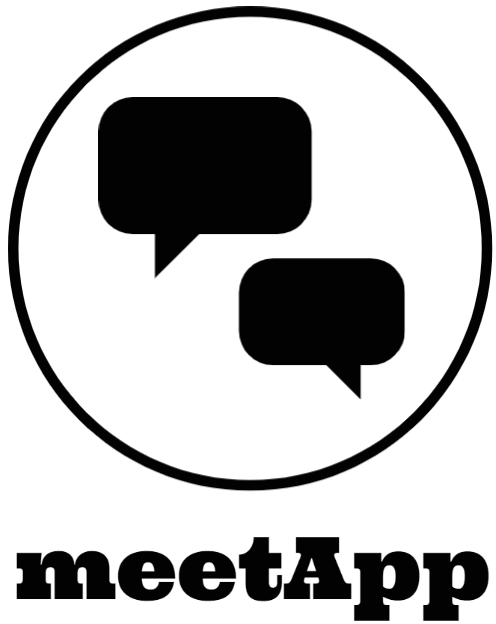
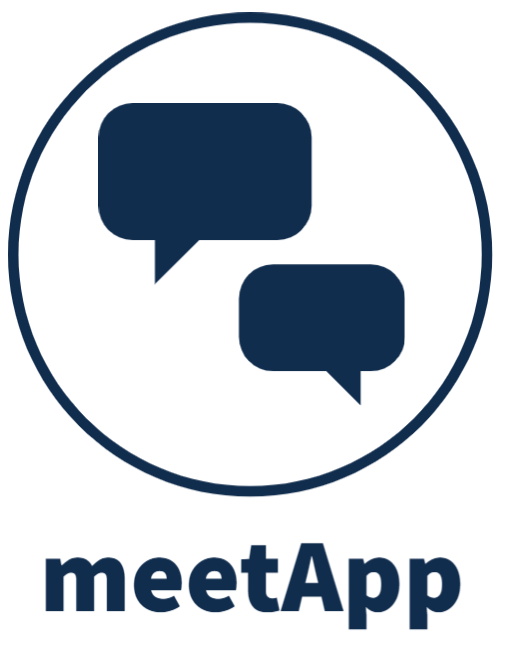
add new css features. Mainly colors

diff --git a/src/index.css b/src/index.css
@@ -1,6 +1,9 @@
 @import url(https://fonts.googleapis.com/css2?family=Space+Grotesk:wght@300&display=swap);
 
+/* Palette used: https://colorhunt.co/palette/f9f7f7dbe2ef3f72af112d4e */
+
 body{
+  background-color: #F9F7F7;
   font-family: 'Space Grotesk', sans-serif;
   text-align: left;
   margin: 50px 10%;
@@ -14,7 +17,7 @@ ul{
   margin: auto;
 }
 .logo{
-  width: 150px;
+  width: 220px;
 }
 
 .App * {
@@ -27,112 +30,6 @@ p {
 
 .display-none {
   display: none;
-}
-
-.showSuggestions {
-  display: block;
-}
-
-input[type="text"],
-input[type="number"] {
-  padding: 8px 6px 8px 10px;
-  border-radius: 4px;
-  outline: none;
-  border: 1px solid #ccc;
-  font-size: 14px;
-  line-height: 20px;
-  align-self: center;
-  height: 38px;
-}
-.num-events{
-  width: 80px ;
-  text-align: center;
-}
-
-.city-input {
-  width: 250px;
-}
-
-.citySearch {
-  display: flex;
-  flex-direction: column;
-  flex-basis: 300px;
-  max-width: 300px;
-  margin: auto;
-  position: relative;
-}
-.suggestions {
-  width: 250px;
-  position: absolute;
-  z-index: 2;
-  align-self: center;
-  margin: 0;
-  top: 43px;
-  font-size: 14px;
-  box-shadow: 10px 10px 16px -12px rgba(0, 0, 0, 0.75);
-}
-
-.suggestions > li {
-  text-align: left;
-  padding: 8px 6px 8px 10px;
-  background-color: #eee;
-  cursor: default;
-}
-.suggestions > li:last-child {
-  border-bottom-left-radius: 4px;
-  border-bottom-right-radius: 4px;
-}
-
-.suggestions > li:hover {
-  background-color: #bcdcdb;
-}
-
-.details{
-  margin: 2px 0 17px;
-  line-height: 30px;
-}
-
-.position-btn {
-  position: absolute;
-  right: 5px;
-  bottom: 5px;
-  padding: 5px 8px;
-  border-radius: 4px;
-  outline: none;
-  cursor: pointer;
-}
-.btn{
-  box-shadow:inset 0px 1px 3px 0px #b0b0b0;
-  background:linear-gradient(to bottom, #666b6a 5%, #2b2e2e 100%);
-  background-color:#2e2e2e;
-  border-radius:5px;
-  border:1px solid #696969;
-  cursor:pointer;
-  color:#ffffff;
-  font-size:15px;
-  padding:11px 23px;
-	text-decoration:none;
-	text-shadow:0px -1px 0px #666666;
-}
-
-.btn:hover {
-	background:linear-gradient(to bottom, #2b2e2e 5%, #666b6a 100%);
-	background-color:#2b2e2e;
-}     
-
-.event {
-  font-size: 1.1rem;
-  padding: 10px 10px 35px;
-  margin-bottom: 10px;
-  text-align: left;
-  border: 1px solid #ccc;
-  border-radius: 4px;
-  position: relative;
-}
-
-.event-title {
-  font-size: 1.5rem;
-  font-weight: 600;
 }
 
 .group-name {
@@ -159,12 +56,6 @@ input[type="number"] {
   overflow-x: hidden;
 }
 
-.numberOfEvents {
-  width: 50%;
-  margin: 50px auto;
-  text-align: center;
-}
-
 .button-wrapper {
   display: grid;
   grid-template-columns: 1fr 1fr 1fr;
@@ -178,7 +69,7 @@ input[type="number"] {
   top: 20px;
 }
 
-.data-vis-wrapper {
+/* .data-vis-wrapper {
   display: flex;
   align-items: center;
   flex-direction: column;
@@ -217,8 +108,8 @@ input[type="number"] {
 }
 .google-btn:active {
   background: #1669f2;
-}
-.google-icon-wrapper {
+} */
+/* .google-icon-wrapper {
   position: absolute;
   margin-top: 1px;
   margin-left: 1px;
@@ -226,26 +117,26 @@ input[type="number"] {
   height: 40px;
   border-radius: 2px;
   background-color: #fff;
-}
-.google-icon {
+} */
+/* .google-icon {
   position: absolute;
   margin-top: 11px;
   margin-left: -8px;
   width: 18px;
   height: 18px;
-}
-.btn-text {
+} */
+/* .btn-text {
   float: right;
   margin: 11px 11px 0 0;
   color: #fff;
   font-size: 14px;
   letter-spacing: 0.2px;
   font-family: "Roboto";
-}
+} */
 
 
 
-@media only screen and (min-width: 992px) {
+/* @media only screen and (min-width: 992px) {
   .data-vis-wrapper {
     flex-direction: row;
   }
@@ -255,7 +146,7 @@ input[type="number"] {
     min-width: auto;
     margin: 0 auto;
   }
-}
+} */
 
 @media screen and (max-width: 890px) {
  body{

diff --git a/src/components/eventlist/event-list.css b/src/components/eventlist/event-list.css
@@ -1,0 +1,57 @@
+.showSuggestions {
+  display: block;
+}
+
+input[type="text"],
+input[type="number"] {
+  padding: 8px 6px 8px 10px;
+  border-radius: 4px;
+  outline: none;
+  border: 1px solid #ccc;
+  font-size: 14px;
+  line-height: 20px;
+  align-self: center;
+  height: 38px;
+}
+.num-events{
+  width: 80px ;
+  text-align: center;
+}
+
+.city-input {
+  width: 250px;
+}
+
+.citySearch {
+  display: flex;
+  flex-direction: column;
+  flex-basis: 300px;
+  max-width: 300px;
+  margin: auto;
+  position: relative;
+}
+.suggestions {
+  width: 250px;
+  position: absolute;
+  z-index: 2;
+  align-self: center;
+  margin: 0;
+  top: 43px;
+  font-size: 14px;
+  box-shadow: 10px 10px 16px -12px rgba(0, 0, 0, 0.75);
+}
+
+.suggestions > li {
+  text-align: left;
+  padding: 8px 6px 8px 10px;
+  background-color: #eee;
+  cursor: default;
+}
+.suggestions > li:last-child {
+  border-bottom-left-radius: 4px;
+  border-bottom-right-radius: 4px;
+}
+
+.suggestions > li:hover {
+  background-color: #bcdcdb;
+}

diff --git a/src/components/event/event.css b/src/components/event/event.css
@@ -1,0 +1,46 @@
+.event {
+  background-color: #DBE2EF;
+  font-size: 1.1rem;
+  padding: 10px 10px 35px;
+  margin-bottom: 10px;
+  text-align: left;
+  border: 1px solid #ccc;
+  border-radius: 4px;
+  position: relative;
+}
+
+.event-title {
+  font-size: 1.5rem;
+  font-weight: 600;
+}
+
+.position-btn {
+  position: absolute;
+  right: 5px;
+  bottom: 5px;
+  padding: 5px 8px;
+  border-radius: 4px;
+  outline: none;
+  cursor: pointer;
+}
+.btn{
+  box-shadow:inset 0px 1px 3px 0px #b0b0b0;
+  background-color:#3F72AF;
+  border-radius:5px;
+  border:1px solid #696969;
+  cursor:pointer;
+  color:#ffffff;
+  font-size:15px;
+  padding:11px 23px;
+	text-decoration:none;
+	text-shadow:0px -1px 0px #666666;
+}
+
+.btn:hover {
+	background-color:#112D4E;
+}     
+
+.details{
+  margin: 2px 0 17px;
+  line-height: 30px;
+}

diff --git a/src/components/numberofevents/numberofevents.js b/src/components/numberofevents/numberofevents.js
@@ -1,5 +1,6 @@
 import React from "react";
 import { ErrorAlert } from '../alert/alert';
+import './numberofevents.css';
 
 class NumberOfEvents extends React.Component {
   constructor(){

diff --git a/src/components/eventlist/event-list.js b/src/components/eventlist/event-list.js
@@ -1,4 +1,5 @@
 import React from 'react';
+import './event-list.css'
 
 //components
 import Event from '../event/event';

diff --git a/src/components/event/event.js b/src/components/event/event.js
@@ -1,4 +1,5 @@
 import React from 'react';
+import './event.css'
 
 class Event extends React.Component{
   state = {

diff --git a/src/components/numberofevents/numberofevents.css b/src/components/numberofevents/numberofevents.css
@@ -1,0 +1,5 @@
+.numberOfEvents {
+  width: 50%;
+  margin: 50px auto;
+  text-align: center;
+}
